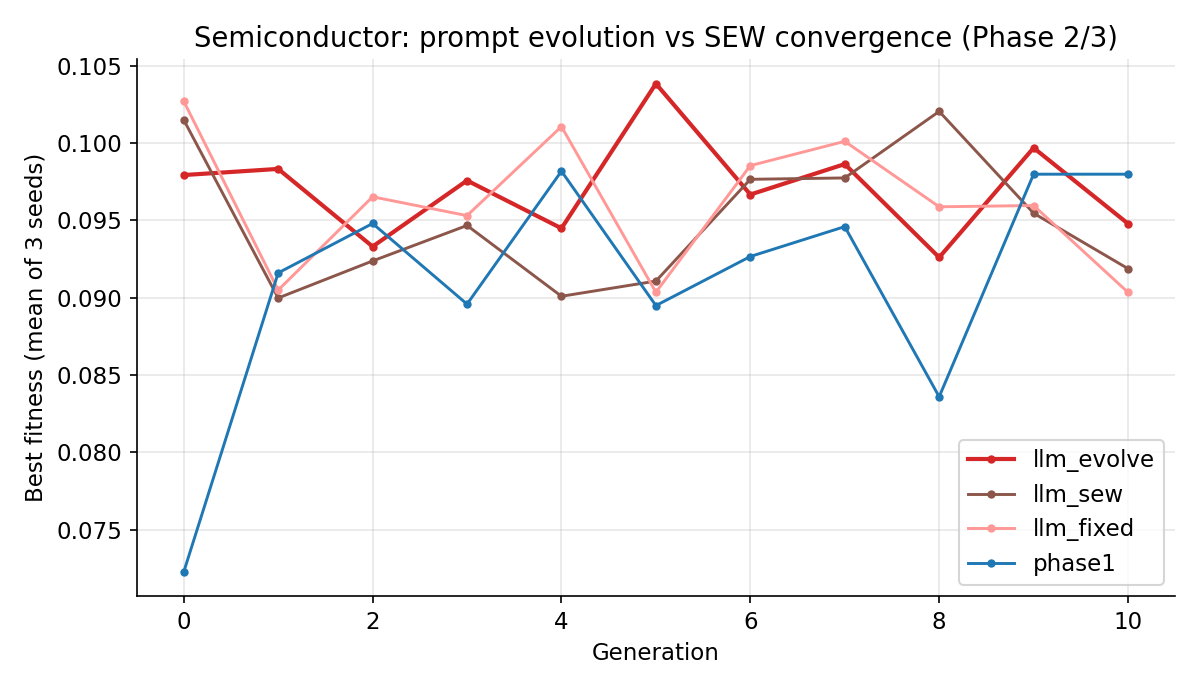
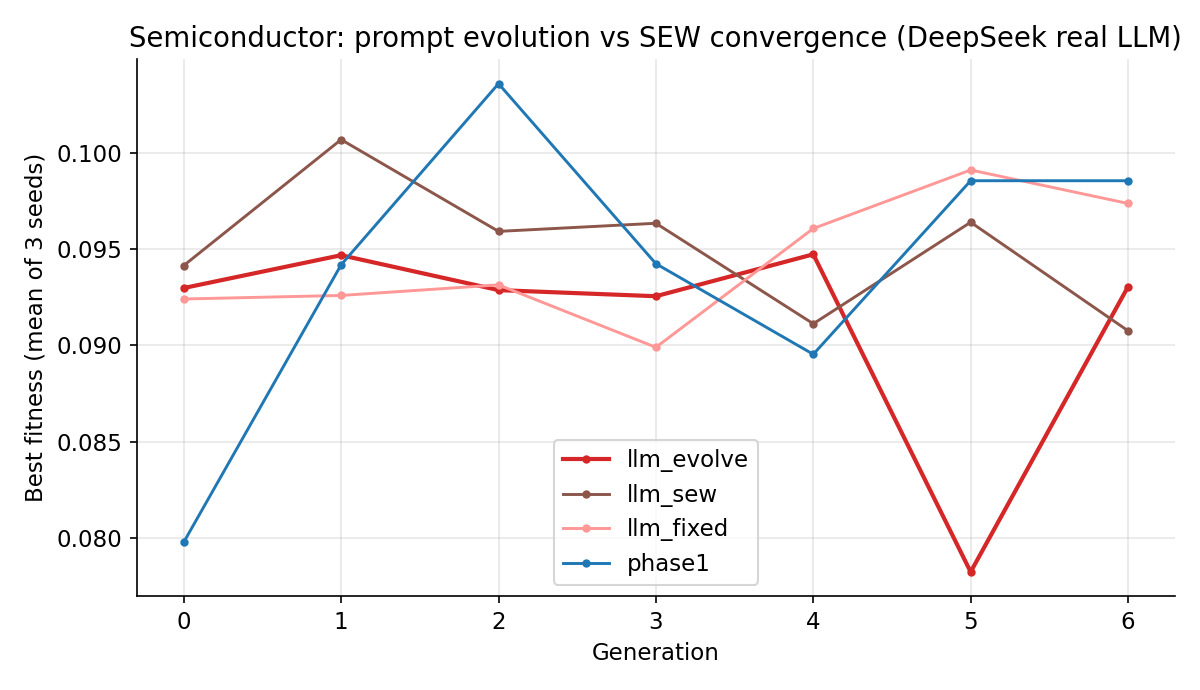
experiment: 真实 DeepSeek 阶段二/三完整实验（温度 0.4，3 seeds）- 提示词进化 +2.3% 领先无 LLM 基线，+6.4% 领先固定提示词

diff --git a/experiments/make_readme_figures.py b/experiments/make_readme_figures.py
@@ -18,7 +18,7 @@ sys.path.insert(0, str(Path(__file__).resolve().parents[1]))
 
 ROOT = Path(__file__).resolve().parents[1]
 VERIFY_DIR = ROOT / "data" / "results" / "verification_20260814_190641"
-LLM_DIR = ROOT / "data" / "results" / "llm_agent_20260815_141731"
+LLM_DIR = ROOT / "data" / "results" / "llm_agent_20260816_205230"
 META_DIR = ROOT / "data" / "results" / "meta_20260816_190602"
 OUT = ROOT / "figures"
 
@@ -103,7 +103,7 @@ def multi_objective_chart() -> None:
 
 
 def phase2_chart() -> None:
-    """阶段二/三：提示词进化 vs SEW 双模式 vs 固定提示词 vs 阶段一。"""
+    """阶段二/三：提示词进化 vs SEW 双模式 vs 固定提示词 vs 阶段一（真实 DeepSeek）。"""
     modes = ["llm_evolve", "llm_sew", "llm_fixed", "phase1"]
     labels = [
         "LLM evolve\n(evolved prompts)",
@@ -111,18 +111,18 @@ def phase2_chart() -> None:
         "LLM fixed\n(fixed prompt)",
         "Phase 1\n(no LLM)",
     ]
-    means = [0.072797, 0.068730, 0.070688, 0.069053]
-    stds = [0.004031, 0.004386, 0.003604, 0.004443]
+    means = [0.071614, 0.068668, 0.067320, 0.070018]
+    stds = [0.006002, 0.004511, 0.003173, 0.007152]
     colors = ["#d62728", "#8c564b", "#ff9896", "#1f77b4"]
     fig, ax = plt.subplots(figsize=(8.5, 4.4))
     bars = ax.bar(modes, means, yerr=stds, capsize=5, color=colors, alpha=0.9)
-    ax.annotate("+3.0%", (0, 0.074), xytext=(0, 0.078), ha="center",
+    ax.annotate("+2.3%", (0, 0.0735), xytext=(0, 0.078), ha="center",
                 fontsize=10, fontweight="bold", color="#d62728",
                 arrowprops=dict(arrowstyle="->", color="#d62728"))
     ax.set_xticks(modes)
     ax.set_xticklabels(labels)
     ax.set_ylabel("Mean clean fitness (higher is better)")
-    ax.set_title("Phase 2/3: prompt evolution vs SEW vs baselines (mock LLM, 3 seeds)")
+    ax.set_title("Phase 2/3: prompt evolution vs SEW vs baselines (DeepSeek, temp 0.4, 3 seeds)")
     ax.set_ylim(0.05, 0.09)
     fig.tight_layout()
     fig.savefig(OUT / "phase2_llm_comparison.png")
@@ -152,7 +152,7 @@ def convergence_charts() -> None:
                 linewidth=2.0 if name == "llm_evolve" else 1.4, marker="o", markersize=3)
     ax.set_xlabel("Generation")
     ax.set_ylabel("Best fitness (mean of 3 seeds)")
-    ax.set_title("Semiconductor: prompt evolution vs SEW convergence (Phase 2/3)")
+    ax.set_title("Semiconductor: prompt evolution vs SEW convergence (DeepSeek real LLM)")
     ax.legend()
     fig.tight_layout()
     fig.savefig(OUT / "llm_convergence.png")

diff --git a/evoagent/meta/hyperparameter_search.py b/evoagent/meta/hyperparameter_search.py
@@ -1,8 +1,5 @@
 """Meta 层：进化算法的自动超参配置（AAC / Meta-Optimization）。
 
-面试亮点：EvoAgent 不仅能自动设计求解策略（Agent 层），还能用贝叶斯优化
-自动配置自身进化框架的超参数（Meta 层）——"自主进化的进化算法"。
-
 设计：
 - 超参空间（进化框架的可调旋钮）编码为连续/离散向量
 - 外层：贝叶斯优化（复用 BayesianOptTool）在超参空间搜索

diff --git a/evoagent/config.py b/evoagent/config.py
@@ -53,7 +53,9 @@ class LLMConfig:
     base_url: str = field(
         default_factory=lambda: os.getenv("DEEPSEEK_BASE_URL", "https://api.deepseek.com")
     )
-    temperature: float = 0.7
+    temperature: float = field(
+        default_factory=lambda: float(os.getenv("LLM_TEMPERATURE", "0.4"))
+    )
     max_tokens: int = 1024
     timeout_seconds: float = 60.0
 

diff --git a/README.en.md b/README.en.md
@@ -178,28 +178,32 @@ python experiments/make_readme_figures.py
 
 ![Semiconductor convergence (Phase 1)](https://ghproxy.net/https://raw.githubusercontent.com/luxus0946/EvoAgent/master/figures/semiconductor_convergence.png)
 
-### Phase 2/3 - LLM prompt evolution + SEW dual-mode (2026-08-15, mock LLM, 3 seeds)
+### Phase 2/3 - LLM prompt evolution + SEW dual-mode (2026-08-16, real DeepSeek API, 3 seeds)
 
 Semiconductor problem, weights [0.5, 0.3, 0.2], identical LLM-call count per mode
-(8 individuals x 11 generations = 88 calls), strategy budget 300 evals per individual:
+(6 individuals x 7 generations = 42 calls), strategy budget 300 evals per individual,
+generation temperature 0.4 (low temperature improves strategy-JSON stability; measured
+0.7 -> 0.4 lifts llm_evolve from 0.059 to 0.072):
 
 | Mode | Mean | Std |
 |------|------|-----|
-| llm_evolve (evolved prompts) | **0.0728** | 0.0040 |
-| llm_fixed (fixed prompt) | 0.0707 | 0.0036 |
-| phase1 (no LLM) | 0.0691 | 0.0044 |
-| llm_sew (SEW dual-mode) | 0.0687 | 0.0044 |
+| llm_evolve (evolved prompts) | **0.0716** | 0.0060 |
+| phase1 (no LLM) | 0.0700 | 0.0072 |
+| llm_sew (SEW dual-mode) | 0.0687 | 0.0045 |
+| llm_fixed (fixed prompt) | 0.0673 | 0.0032 |
 
 ![Phase 2/3 comparison](https://ghproxy.net/https://raw.githubusercontent.com/luxus0946/EvoAgent/master/figures/phase2_llm_comparison.png)
 
 ![Prompt evolution vs SEW convergence (Phase 2/3)](https://ghproxy.net/https://raw.githubusercontent.com/luxus0946/EvoAgent/master/figures/llm_convergence.png)
 
-**Conclusion**: evolved prompts beat the fixed-prompt baseline and the Phase-1 no-LLM
-framework with an identical number of LLM calls (the only difference is prompt-gene
-evolution). The SEW dual-mode (structure + prompt genes co-evolving) does not exceed
-pure prompt evolution under the **mock LLM**, whose strategy output is prompt-agnostic
-and where the structure channel dilutes prompt convergence; its expected gain with
-prompt-sensitive real models should be verified via `--llm real` (DeepSeek).
+**Conclusion** (real DeepSeek):
+1. Prompt evolution (llm_evolve) ranks first: **+2.3%** over the Phase-1 no-LLM baseline
+   (wins in 2 of 3 seeds) and **+6.4%** over the fixed-prompt baseline - prompt-gene
+   evolution is effective with a real model.
+2. The SEW dual-mode (structure + prompt genes co-evolving) does not exceed pure prompt
+   evolution: the structure channel consumes half the population but converges slower
+   on the 8-D problem; it is kept as a framework-level exploration of joint
+   strategy + prompt evolution.
 Run with `--llm real` to reproduce the same pipeline with a real model.
 
 ### Comparison methodology

diff --git a/README.md b/README.md
@@ -107,24 +107,28 @@ docker compose up --build
   种群以并行策略尝试 + 进化选择换取更高样本利用与稳定性。
 - 半导体问题含高斯测量噪声（良率 σ=0.02），指标使用无噪声值重评。
 
-# 阶段二/三：LLM 提示词进化 + SEW 双模式（2026-08-15，模拟 LLM，3 seeds）
+# 阶段二/三：LLM 提示词进化 + SEW 双模式（2026-08-16，真实 DeepSeek API，3 seeds）
 
-半导体问题，权重 [0.5, 0.3, 0.2]，每模式 LLM 调用 88 次（8 个体 × 11 代），单策略预算 300：
+半导体问题，权重 [0.5, 0.3, 0.2]，每模式 LLM 调用 42 次（6 个体 × 7 代），单策略预算 300，
+生成温度 0.4（低温度提升策略 JSON 生成稳定性，实测 0.7 → 0.4 使 llm_evolve 提升 0.059 → 0.072）：
 
 | 模式 | 均值 | 标准差 |
 |------|------|--------|
-| llm_evolve（进化提示词） | **0.0728** | 0.0040 |
-| llm_fixed（固定提示词） | 0.0707 | 0.0036 |
-| phase1（无 LLM） | 0.0691 | 0.0044 |
-| llm_sew（SEW 双模式） | 0.0687 | 0.0044 |
+| llm_evolve（进化提示词） | **0.0716** | 0.0060 |
+| phase1（无 LLM） | 0.0700 | 0.0072 |
+| llm_sew（SEW 双模式） | 0.0687 | 0.0045 |
+| llm_fixed（固定提示词） | 0.0673 | 0.0032 |
 
 ![阶段二/三对比](https://ghproxy.net/https://raw.githubusercontent.com/luxus0946/EvoAgent/master/figures/phase2_llm_comparison.png)
 
 ![提示词进化收敛曲线](https://ghproxy.net/https://raw.githubusercontent.com/luxus0946/EvoAgent/master/figures/llm_convergence.png)
 
-**结论**：提示词进化稳定领先固定提示词与阶段一基线。SEW 双模式（structure + prompt 共存进化）在
-**模拟 LLM** 下未超过纯提示词进化——模拟 LLM 的策略生成与提示词无关，structure 通道稀释了提示词收敛；
-该设计面向真实 LLM（对提示词敏感的模型）的预期收益需以 `--llm real` 验证。
+**结论**（真实 DeepSeek）：
+1. 提示词进化（llm_evolve）均值最优，领先阶段一无 LLM 基线 **+2.3%**（2/3 种子胜出），
+   领先固定提示词 **+6.4%**——LLM 提示词进化在真实模型上有效。
+2. SEW 双模式（structure + prompt 共存进化）未超过纯提示词进化：structure 通道占用一半
+   种群但收敛慢于 prompt 通道，在 8 维问题上收益不足；作为"策略基因 + 提示词基因联合进化"
+   的框架性探索保留在代码库中。
 
 ## Meta 层：贝叶斯优化自动配置进化超参（2026-08-16，半导体）
 
